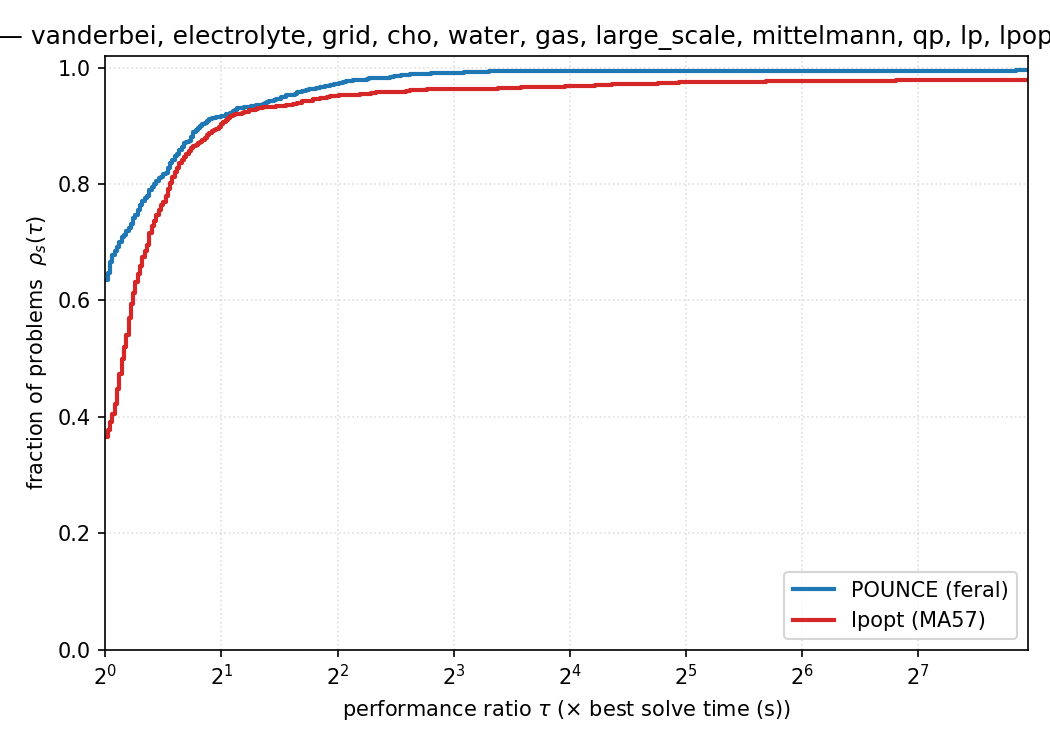
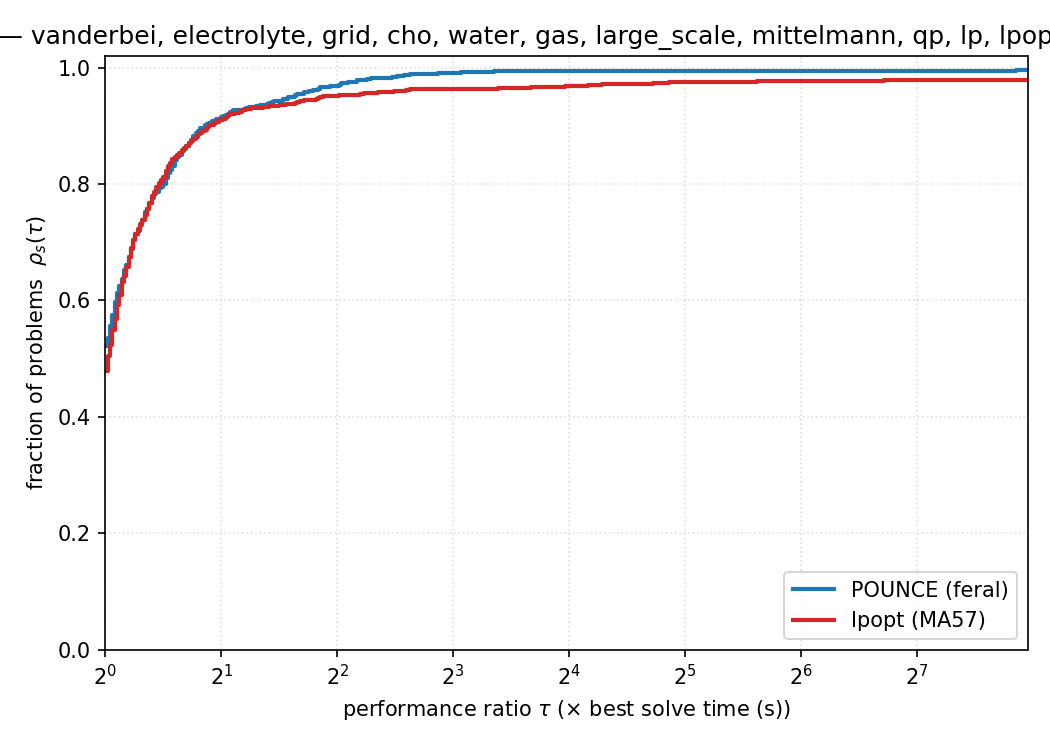
bench: re-baseline the report on clean main, not a dirty perf branch
The committed BENCHMARK_REPORT.md was generated from
`perf/feral-refine-target @ 96846891-dirty` -- an experimental perf branch
with uncommitted changes. Its numbers therefore describe a tree that was
never merged, which makes it useless as the baseline every later run is
read against, and flattering in a direction nobody chose.

This replaces it with a regeneration from `main @ a798ae1b`. The numbers
get worse, which is the point:

  CUTEst (679 commonly-solved)   dirty perf branch -> clean main
    median time                  34.4ms -> 40.7ms
    geometric mean speedup       1.0x   -> 0.9x
    POUNCE faster                473/679 (70%) -> 345/679 (51%)

BENCHMARK_REPORT.json is deliberately untouched: it is the status/objective
regression baseline and carries no timings, and no status or objective
moved between the two runs.

Claude-Session: https://claude.ai/code/session_01N9Tqn6nrW7B91fC1HpJsHp

diff --git a/benchmarks/BENCHMARK_REPORT.md b/benchmarks/BENCHMARK_REPORT.md
@@ -1,12 +1,12 @@
 # POUNCE Benchmark Report
 
-Generated: 2026-08-22 04:06:16
+Generated: 2026-08-22 11:48:14
 
 ## Provenance
 
 | Component | Version / Detail |
 |-----------|------------------|
-| POUNCE | v0.10.0 (perf/feral-refine-target @ 96846891-dirty) |
+| POUNCE | v0.10.0 (main @ a798ae1b) |
 | POUNCE linear solver | feral (default) |
 | Ipopt | Ipopt 3.14.20 (Darwin arm64), ASL(20241202) |
 | Ipopt linear solver | ma57 (via ref/Ipopt/install-ma57) |
@@ -31,7 +31,7 @@ smoke check (`make -C benchmarks gams-bench`) and is not aggregated here.
 > Override — **mittelmann**: Ipopt reference at 1800s (regenerated 2026-08-07, threads pinned to 1 (OMP/OPENBLAS/VECLIB/RAYON)).
 > Reason given: the 300s max_cpu_time in the base stamp was reached at ~90s wall on unpinned multithreaded BLAS, leaving 6 instances truncated; see dev-notes/research/mittelmann-post-546-sweep.md
 > POUNCE runs in this suite were cut off at ~300s, so the two columns are **not** held to the same clock here.
-> Decided by that gap: **WM_CFy** — POUNCE cut off at 300s (105 iters), Ipopt Optimal at 1147s (556 iters), i.e. past POUNCE's cutoff. It is counted here as an Ipopt-only solve, on a limit POUNCE was never given. Measured out of band on 2026-08-11 at the reference's own 1800s limit (same host, threads pinned, binary from ce41b5bc): POUNCE returns `Optimal Solution Found` in 673s / 239 iterations, vs Ipopt's 1147s / 556. Objectives differ by 0.136% (two local optima; Ipopt's is the better point). Deliberately not merged into the results, which record the sweep as configured — see dev-notes/research/wm-cfy-timelimit.md.
+> Decided by that gap: **WM_CFy** — POUNCE cut off at 300s (101 iters), Ipopt Optimal at 1147s (556 iters), i.e. past POUNCE's cutoff. It is counted here as an Ipopt-only solve, on a limit POUNCE was never given. Measured out of band on 2026-08-11 at the reference's own 1800s limit (same host, threads pinned, binary from ce41b5bc): POUNCE returns `Optimal Solution Found` in 673s / 239 iterations, vs Ipopt's 1147s / 556. Objectives differ by 0.136% (two local optima; Ipopt's is the better point). Deliberately not merged into the results, which record the sweep as configured — see dev-notes/research/wm-cfy-timelimit.md.
 
 ## Executive Summary
 
@@ -137,16 +137,16 @@ On 679 commonly-solved problems:
 
 | Metric | POUNCE | Ipopt |
 |--------|--------|-------|
-| Median time | 34.4ms | 44.3ms |
-| Total time | 281.01s | 234.62s |
+| Median time | 40.7ms | 44.3ms |
+| Total time | 290.49s | 234.62s |
 | Mean iterations | 46.9 | 46.9 |
 | Median iterations | 15 | 16 |
 
-- **Geometric mean speedup**: 1.0x
-- **Median speedup**: 1.1x
-- POUNCE faster: 473/679 (70%)
+- **Geometric mean speedup**: 0.9x
+- **Median speedup**: 1.0x
+- POUNCE faster: 345/679 (51%)
 - POUNCE 10x+ faster: 1/679
-- Ipopt faster: 206/679
+- Ipopt faster: 334/679
 
 ## Electrolyte Suite — Performance
 
@@ -154,16 +154,16 @@ On 13 commonly-solved problems:
 
 | Metric | POUNCE | Ipopt |
 |--------|--------|-------|
-| Median time | 29.5ms | 37.6ms |
-| Total time | 395.6ms | 503.3ms |
+| Median time | 32.7ms | 37.6ms |
+| Total time | 431.8ms | 503.3ms |
 | Mean iterations | 12.3 | 12.2 |
 | Median iterations | 10 | 10 |
 
-- **Geometric mean speedup**: 1.3x
-- **Median speedup**: 1.2x
-- POUNCE faster: 13/13 (100%)
+- **Geometric mean speedup**: 1.2x
+- **Median speedup**: 1.1x
+- POUNCE faster: 12/13 (92%)
 - POUNCE 10x+ faster: 0/13
-- Ipopt faster: 0/13
+- Ipopt faster: 1/13
 
 ## Grid Suite — Performance
 
@@ -171,16 +171,16 @@ On 4 commonly-solved problems:
 
 | Metric | POUNCE | Ipopt |
 |--------|--------|-------|
-| Median time | 33.8ms | 41.9ms |
-| Total time | 135.0ms | 157.2ms |
+| Median time | 36.8ms | 41.9ms |
+| Total time | 145.3ms | 157.2ms |
 | Mean iterations | 15.5 | 15.5 |
 | Median iterations | 17 | 17 |
 
-- **Geometric mean speedup**: 1.2x
-- **Median speedup**: 1.2x
-- POUNCE faster: 4/4 (100%)
+- **Geometric mean speedup**: 1.1x
+- **Median speedup**: 1.1x
+- POUNCE faster: 3/4 (75%)
 - POUNCE 10x+ faster: 0/4
-- Ipopt faster: 0/4
+- Ipopt faster: 1/4
 
 ## Water Suite — Performance
 
@@ -188,13 +188,13 @@ On 6 commonly-solved problems:
 
 | Metric | POUNCE | Ipopt |
 |--------|--------|-------|
-| Median time | 111.2ms | 122.5ms |
-| Total time | 692.7ms | 696.0ms |
+| Median time | 121.1ms | 122.5ms |
+| Total time | 742.0ms | 696.0ms |
 | Mean iterations | 198.2 | 205.2 |
 | Median iterations | 183 | 209 |
 
-- **Geometric mean speedup**: 1.0x
-- **Median speedup**: 0.9x
+- **Geometric mean speedup**: 0.9x
+- **Median speedup**: 0.8x
 - POUNCE faster: 2/6 (33%)
 - POUNCE 10x+ faster: 0/6
 - Ipopt faster: 4/6
@@ -205,12 +205,12 @@ On 3 commonly-solved problems:
 
 | Metric | POUNCE | Ipopt |
 |--------|--------|-------|
-| Median time | 84.2ms | 113.3ms |
-| Total time | 282.7ms | 374.0ms |
+| Median time | 89.8ms | 113.3ms |
+| Total time | 309.6ms | 374.0ms |
 | Mean iterations | 39.7 | 39.7 |
 | Median iterations | 20 | 20 |
 
-- **Geometric mean speedup**: 1.4x
+- **Geometric mean speedup**: 1.2x
 - **Median speedup**: 1.3x
 - POUNCE faster: 3/3 (100%)
 - POUNCE 10x+ faster: 0/3
@@ -222,8 +222,8 @@ On 5 commonly-solved problems:
 
 | Metric | POUNCE | Ipopt |
 |--------|--------|-------|
-| Median time | 2.48s | 573.2ms |
-| Total time | 11.57s | 9.43s |
+| Median time | 2.53s | 573.2ms |
+| Total time | 11.49s | 9.43s |
 | Mean iterations | 309.6 | 305.6 |
 | Median iterations | 5 | 2 |
 
@@ -239,12 +239,12 @@ On 40 commonly-solved problems:
 
 | Metric | POUNCE | Ipopt |
 |--------|--------|-------|
-| Median time | 5.97s | 6.88s |
-| Total time | 849.31s | 1488.30s |
+| Median time | 6.20s | 6.88s |
+| Total time | 863.86s | 1488.30s |
 | Mean iterations | 153.6 | 110.7 |
 | Median iterations | 55 | 55 |
 
-- **Geometric mean speedup**: 1.0x
+- **Geometric mean speedup**: 0.9x
 - **Median speedup**: 0.7x
 - POUNCE faster: 14/40 (35%)
 - POUNCE 10x+ faster: 4/40
@@ -256,16 +256,16 @@ On 133 commonly-solved problems:
 
 | Metric | POUNCE | Ipopt |
 |--------|--------|-------|
-| Median time | 81.5ms | 92.9ms |
-| Total time | 85.27s | 172.97s |
+| Median time | 84.9ms | 92.9ms |
+| Total time | 87.06s | 172.97s |
 | Mean iterations | 18.4 | 75.6 |
 | Median iterations | 18 | 24 |
 
-- **Geometric mean speedup**: 1.2x
+- **Geometric mean speedup**: 1.1x
 - **Median speedup**: 1.1x
-- POUNCE faster: 82/133 (62%)
+- POUNCE faster: 73/133 (55%)
 - POUNCE 10x+ faster: 3/133
-- Ipopt faster: 51/133
+- Ipopt faster: 60/133
 
 ## LP Suite — Performance
 
@@ -273,16 +273,16 @@ On 352 commonly-solved problems:
 
 | Metric | POUNCE | Ipopt |
 |--------|--------|-------|
-| Median time | 146.7ms | 157.8ms |
-| Total time | 496.95s | 422.20s |
+| Median time | 146.1ms | 157.8ms |
+| Total time | 500.53s | 422.20s |
 | Mean iterations | 25.0 | 107.3 |
 | Median iterations | 23 | 56 |
 
 - **Geometric mean speedup**: 1.1x
 - **Median speedup**: 1.0x
-- POUNCE faster: 181/352 (51%)
+- POUNCE faster: 175/352 (50%)
 - POUNCE 10x+ faster: 10/352
-- Ipopt faster: 171/352
+- Ipopt faster: 177/352
 
 ## Failure Analysis
 
@@ -436,12 +436,12 @@ These suites currently run POUNCE only — no Ipopt-side comparison is captured 
 
 | Problem | n | m | Status | Objective | Iters | Time |
 |---------|---|---|--------|-----------|-------|------|
-| ex10 | 17,680 | 69,608 | Maximum_CpuTime_Exceeded | N/A | 0 | 300.14s |
-| irish-electricity | 61,728 | 104,259 | Maximum_CpuTime_Exceeded | N/A | 363 | 300.08s |
-| qap15 | 22,275 | 6,330 | Optimal | 1.0410e+03 | 26 | 30.67s |
-| supportcase10 | 14,630 | 165,684 | Optimal | 3.3839e+00 | 32 | 124.22s |
+| ex10 | 17,680 | 69,608 | Maximum_CpuTime_Exceeded | N/A | 0 | 300.09s |
+| irish-electricity | 61,728 | 104,259 | Maximum_CpuTime_Exceeded | N/A | 391 | 300.07s |
+| qap15 | 22,275 | 6,330 | Optimal | 1.0410e+03 | 26 | 30.74s |
+| supportcase10 | 14,630 | 165,684 | Optimal | 3.3839e+00 | 32 | 124.32s |
 
-POUNCE: **2/4 Optimal** in 755.10s total
+POUNCE: **2/4 Optimal** in 755.23s total
 
 ## Dedicated Convex Solver vs. General NLP (head-to-head)
 
@@ -466,16 +466,16 @@ On 353 problems solved by both arms:
 
 | Metric | pounce-convex | pounce-nlp |
 |--------|---------------|------------|
-| Median time | 146.3ms | 196.8ms |
-| Total time | 153.29s | 626.43s |
+| Median time | 148.9ms | 180.1ms |
+| Total time | 154.86s | 625.27s |
 | Mean iterations | 25.0 | 118.0 |
 | Median iterations | 23 | 57 |
 
 - **Geometric-mean speedup (convex over nlp)**: 1.4x
 - **Median speedup**: 1.1x
-- pounce-convex faster: 245/353 (69%)
+- pounce-convex faster: 238/353 (67%)
 - pounce-convex 10x+ faster: 11/353
-- pounce-nlp faster: 108/353
+- pounce-nlp faster: 115/353
 
 ### QP — convex vs NLP
 
@@ -490,16 +490,16 @@ On 134 problems solved by both arms:
 
 | Metric | pounce-convex | pounce-nlp |
 |--------|---------------|------------|
-| Median time | 83.8ms | 97.5ms |
-| Total time | 344.39s | 435.74s |
+| Median time | 82.4ms | 100.5ms |
+| Total time | 352.34s | 447.26s |
 | Mean iterations | 19.0 | 82.8 |
 | Median iterations | 18 | 25 |
 
 - **Geometric-mean speedup (convex over nlp)**: 1.0x
 - **Median speedup**: 1.0x
-- pounce-convex faster: 60/134 (45%)
+- pounce-convex faster: 69/134 (51%)
 - pounce-convex 10x+ faster: 1/134
-- pounce-nlp faster: 74/134
+- pounce-nlp faster: 65/134
 
 ### Mittelmann — exact vs L-BFGS
 
@@ -514,16 +514,16 @@ On 29 problems solved by both arms:
 
 | Metric | pounce-convex | pounce-nlp |
 |--------|---------------|------------|
-| Median time | 8.09s | 9.55s |
-| Total time | 904.53s | 1119.34s |
+| Median time | 8.35s | 9.39s |
+| Total time | 927.33s | 1119.91s |
 | Mean iterations | 72.2 | 119.6 |
 | Median iterations | 48 | 62 |
 
-- **Geometric-mean speedup (convex over nlp)**: 1.5x
-- **Median speedup**: 1.7x
-- pounce-convex faster: 24/29 (83%)
+- **Geometric-mean speedup (convex over nlp)**: 1.4x
+- **Median speedup**: 1.6x
+- pounce-convex faster: 22/29 (76%)
 - pounce-convex 10x+ faster: 0/29
-- pounce-nlp faster: 5/29
+- pounce-nlp faster: 7/29
 
 ---
 *Generated by benchmark_report.py*
